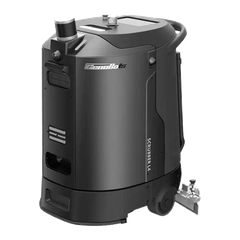
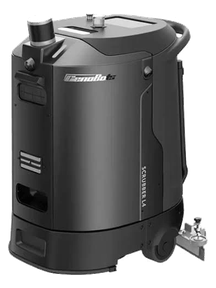
Konečný card uses only the scrubber; wider robot tiles
Completes the previous commit, which removed the old robot files but
missed the page changes (the live card pointed at a deleted image).

Claude-Session: https://claude.ai/code/session_01BZLxn37hPV3nyR5Dfttybs

diff --git a/index.html b/index.html
@@ -254,15 +254,15 @@ a.card:hover .photo,a.card:focus-visible .photo{transform:translateY(-8px)}
 .spk__name a:hover,.spk__name a:focus-visible{text-decoration-color:currentColor}
 .spk__name a::after{content:"\2197";font-size:.5em;vertical-align:.7em;margin-left:.15em;opacity:.45}
 
-.spk__bot{position:absolute;z-index:3;right:var(--s1);bottom:var(--s1);width:60px;height:96px;border-radius:14px;overflow:hidden;background:rgba(255,255,255,.3);backdrop-filter:blur(10px);-webkit-backdrop-filter:blur(10px)}
+.spk__bot{position:absolute;z-index:3;right:var(--s1);bottom:var(--s1);width:72px;height:96px;border-radius:14px;overflow:hidden;background:rgba(255,255,255,.3);backdrop-filter:blur(10px);-webkit-backdrop-filter:blur(10px)}
 .photo .spk__bot img{position:static;width:100%;height:100%;object-fit:cover;filter:none;opacity:1;transform:none}
 .spk:hover .photo .spk__bot img{transform:none}
 .spk__logos{display:inline-flex;gap:6px;vertical-align:-4px;margin-right:8px}
 .spk__logos img{height:18px;width:auto;filter:grayscale(1) contrast(1.25) brightness(.8);opacity:.85;transition:filter .3s,opacity .3s}
 /* company marks are monochrome like the rest of the page; they take their own colour only on hover */
 @media (hover:hover){.spk:hover .spk__logos img{filter:none;opacity:1}}
-.spk .spk__bot--2{right:calc(var(--s1) + 66px)}
-@media (max-width:560px){.spk .spk__bot--2{right:38px}.spk__logos img{height:14px}}
+@media (max-width:560px){.spk__logos img{height:14px}}
+.photo .spk__bot--wide img{object-fit:contain}
 /* ---------- registration ---------- */
 /* ---------- venue ---------- */
 
@@ -315,7 +315,7 @@ a.ticker:focus-visible{outline-offset:-3px;border-radius:0}
   .spk__talk{margin-top:var(--s1);padding-top:8px;font-size:16px}
   .spk__note{font-size:14px}
   .spk__demo{left:6px;bottom:6px;height:24px;padding:0 9px;font-size:11px}
-  .spk__bot{width:28px;height:46px;right:6px;bottom:6px;top:auto;border-radius:8px}
+  .spk__bot{width:34px;height:46px;right:6px;bottom:6px;top:auto;border-radius:8px}
 }
 
 /* ---------- footer ---------- */
@@ -388,21 +388,21 @@ a.ticker:focus-visible{outline-offset:-3px;border-radius:0}
   <h2>Řečníci</h2>
   <div class="spk-grid">
     <article class="spk">
-      <div class="photo"><img loading="lazy" decoding="async" src="/img/sp-konecny.webp" alt="Tomáš Konečný"><span class="spk__bot"><img src="/img/bot-robotservice.webp" alt="Servisní robot" width="60" height="96" loading="lazy" decoding="async"></span><span class="spk__bot spk__bot--2"><img src="/img/bot-scrubber.webp" alt="Podlahový mycí robot" width="60" height="96" loading="lazy" decoding="async"></span></div>
+      <div class="photo"><img loading="lazy" decoding="async" src="/img/sp-konecny.webp" alt="Tomáš Konečný"><span class="spk__bot spk__bot--wide"><img src="/img/bot-scrubber.webp" alt="Podlahový mycí robot" width="72" height="96" loading="lazy" decoding="async"></span></div>
       <h3 class="spk__name"><a href="https://www.linkedin.com/in/tom%C3%A1%C5%A1-kone%C4%8Dn%C3%BD-360a63164/" target="_blank" rel="noopener" aria-label="Tomáš Konečný, Profil na LinkedIn">Tomáš Konečný</a></h3>
       <p class="spk__org">Robotservice</p>
       <p class="spk__talk">Běžné problémy servisních robotů</p>
       <p class="spk__note">Pět minut z praxe: co se na servisních robotech v provozu opravdu kazí.</p>
     </article>
     <article class="spk">
-      <div class="photo"><img loading="lazy" decoding="async" src="/img/sp-vitek.webp" alt="Lukáš Vítek"><span class="spk__demo">Živé demo</span><span class="spk__bot"><img src="/img/bot-integra.webp" alt="Humanoidní robot" width="60" height="96" loading="lazy" decoding="async"></span></div>
+      <div class="photo"><img loading="lazy" decoding="async" src="/img/sp-vitek.webp" alt="Lukáš Vítek"><span class="spk__demo">Živé demo</span><span class="spk__bot"><img src="/img/bot-integra.webp" alt="Humanoidní robot" width="72" height="96" loading="lazy" decoding="async"></span></div>
       <h3 class="spk__name"><a href="https://www.linkedin.com/in/vitek-lukas/" target="_blank" rel="noopener" aria-label="Lukáš Vítek, Profil na LinkedIn">Lukáš Vítek</a></h3>
       <p class="spk__org">Integra Robotics</p>
       <p class="spk__talk">Humanoid a physical AI</p>
       <p class="spk__note">Kde se humanoidi potkávají s physical AI. Integra přiveze humanoida na demo.</p>
     </article>
     <article class="spk">
-      <div class="photo"><img loading="lazy" decoding="async" src="/img/sp-danieau.webp" alt="Fabien Danieau"><span class="spk__demo">Živé demo</span><span class="spk__bot"><img src="/img/bot-reachy.webp" alt="Reachy Mini" width="60" height="96" loading="lazy" decoding="async"></span></div>
+      <div class="photo"><img loading="lazy" decoding="async" src="/img/sp-danieau.webp" alt="Fabien Danieau"><span class="spk__demo">Živé demo</span><span class="spk__bot"><img src="/img/bot-reachy.webp" alt="Reachy Mini" width="72" height="96" loading="lazy" decoding="async"></span></div>
       <h3 class="spk__name"><a href="https://www.linkedin.com/in/fabiendanieau/" target="_blank" rel="noopener" aria-label="Fabien Danieau, Profil na LinkedIn">Fabien Danieau</a></h3>
       <p class="spk__org"><span class="spk__logos"><img src="/img/logo-pollen.webp" alt="Pollen Robotics" width="16" height="18"><img src="/img/logo-hf.svg" alt="Hugging Face" width="20" height="18"></span>Pollen Robotics · Hugging Face</p>
       <p class="spk__talk">Reachy Mini: open-source stolní robot</p>

diff --git a/en/index.html b/en/index.html
@@ -254,15 +254,15 @@ a.card:hover .photo,a.card:focus-visible .photo{transform:translateY(-8px)}
 .spk__name a:hover,.spk__name a:focus-visible{text-decoration-color:currentColor}
 .spk__name a::after{content:"\2197";font-size:.5em;vertical-align:.7em;margin-left:.15em;opacity:.45}
 
-.spk__bot{position:absolute;z-index:3;right:var(--s1);bottom:var(--s1);width:60px;height:96px;border-radius:14px;overflow:hidden;background:rgba(255,255,255,.3);backdrop-filter:blur(10px);-webkit-backdrop-filter:blur(10px)}
+.spk__bot{position:absolute;z-index:3;right:var(--s1);bottom:var(--s1);width:72px;height:96px;border-radius:14px;overflow:hidden;background:rgba(255,255,255,.3);backdrop-filter:blur(10px);-webkit-backdrop-filter:blur(10px)}
 .photo .spk__bot img{position:static;width:100%;height:100%;object-fit:cover;filter:none;opacity:1;transform:none}
 .spk:hover .photo .spk__bot img{transform:none}
 .spk__logos{display:inline-flex;gap:6px;vertical-align:-4px;margin-right:8px}
 .spk__logos img{height:18px;width:auto;filter:grayscale(1) contrast(1.25) brightness(.8);opacity:.85;transition:filter .3s,opacity .3s}
 /* company marks are monochrome like the rest of the page; they take their own colour only on hover */
 @media (hover:hover){.spk:hover .spk__logos img{filter:none;opacity:1}}
-.spk .spk__bot--2{right:calc(var(--s1) + 66px)}
-@media (max-width:560px){.spk .spk__bot--2{right:38px}.spk__logos img{height:14px}}
+@media (max-width:560px){.spk__logos img{height:14px}}
+.photo .spk__bot--wide img{object-fit:contain}
 /* ---------- registration ---------- */
 /* ---------- venue ---------- */
 
@@ -315,7 +315,7 @@ a.ticker:focus-visible{outline-offset:-3px;border-radius:0}
   .spk__talk{margin-top:var(--s1);padding-top:8px;font-size:16px}
   .spk__note{font-size:14px}
   .spk__demo{left:6px;bottom:6px;height:24px;padding:0 9px;font-size:11px}
-  .spk__bot{width:28px;height:46px;right:6px;bottom:6px;top:auto;border-radius:8px}
+  .spk__bot{width:34px;height:46px;right:6px;bottom:6px;top:auto;border-radius:8px}
 }
 
 /* ---------- footer ---------- */
@@ -388,21 +388,21 @@ a.ticker:focus-visible{outline-offset:-3px;border-radius:0}
   <h2>Speakers</h2>
   <div class="spk-grid">
     <article class="spk">
-      <div class="photo"><img loading="lazy" decoding="async" src="/img/sp-konecny.webp" alt="Tomáš Konečný"><span class="spk__bot"><img src="/img/bot-robotservice.webp" alt="Service robot" width="60" height="96" loading="lazy" decoding="async"></span><span class="spk__bot spk__bot--2"><img src="/img/bot-scrubber.webp" alt="Floor scrubber robot" width="60" height="96" loading="lazy" decoding="async"></span></div>
+      <div class="photo"><img loading="lazy" decoding="async" src="/img/sp-konecny.webp" alt="Tomáš Konečný"><span class="spk__bot spk__bot--wide"><img src="/img/bot-scrubber.webp" alt="Floor scrubber robot" width="72" height="96" loading="lazy" decoding="async"></span></div>
       <h3 class="spk__name"><a href="https://www.linkedin.com/in/tom%C3%A1%C5%A1-kone%C4%8Dn%C3%BD-360a63164/" target="_blank" rel="noopener" aria-label="Tomáš Konečný, LinkedIn profile">Tomáš Konečný</a></h3>
       <p class="spk__org">Robotservice</p>
       <p class="spk__talk">Common facility robot issues</p>
       <p class="spk__note">Five minutes from the field: what really breaks on service robots in operation.</p>
     </article>
     <article class="spk">
-      <div class="photo"><img loading="lazy" decoding="async" src="/img/sp-vitek.webp" alt="Lukáš Vítek"><span class="spk__demo">Live demo</span><span class="spk__bot"><img src="/img/bot-integra.webp" alt="Humanoid robot" width="60" height="96" loading="lazy" decoding="async"></span></div>
+      <div class="photo"><img loading="lazy" decoding="async" src="/img/sp-vitek.webp" alt="Lukáš Vítek"><span class="spk__demo">Live demo</span><span class="spk__bot"><img src="/img/bot-integra.webp" alt="Humanoid robot" width="72" height="96" loading="lazy" decoding="async"></span></div>
       <h3 class="spk__name"><a href="https://www.linkedin.com/in/vitek-lukas/" target="_blank" rel="noopener" aria-label="Lukáš Vítek, LinkedIn profile">Lukáš Vítek</a></h3>
       <p class="spk__org">Integra Robotics</p>
       <p class="spk__talk">Humanoids and physical AI</p>
       <p class="spk__note">Where humanoids meet physical AI. Integra brings their humanoid for a live demo.</p>
     </article>
     <article class="spk">
-      <div class="photo"><img loading="lazy" decoding="async" src="/img/sp-danieau.webp" alt="Fabien Danieau"><span class="spk__demo">Live demo</span><span class="spk__bot"><img src="/img/bot-reachy.webp" alt="Reachy Mini" width="60" height="96" loading="lazy" decoding="async"></span></div>
+      <div class="photo"><img loading="lazy" decoding="async" src="/img/sp-danieau.webp" alt="Fabien Danieau"><span class="spk__demo">Live demo</span><span class="spk__bot"><img src="/img/bot-reachy.webp" alt="Reachy Mini" width="72" height="96" loading="lazy" decoding="async"></span></div>
       <h3 class="spk__name"><a href="https://www.linkedin.com/in/fabiendanieau/" target="_blank" rel="noopener" aria-label="Fabien Danieau, LinkedIn profile">Fabien Danieau</a></h3>
       <p class="spk__org"><span class="spk__logos"><img src="/img/logo-pollen.webp" alt="Pollen Robotics" width="16" height="18"><img src="/img/logo-hf.svg" alt="Hugging Face" width="20" height="18"></span>Pollen Robotics · Hugging Face</p>
       <p class="spk__talk">Reachy Mini: open-source desk robot</p>
